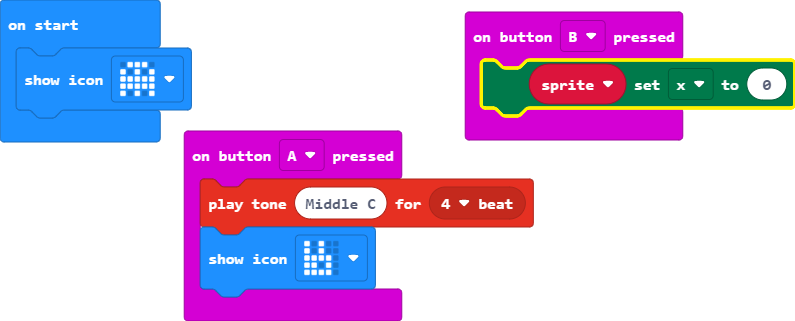
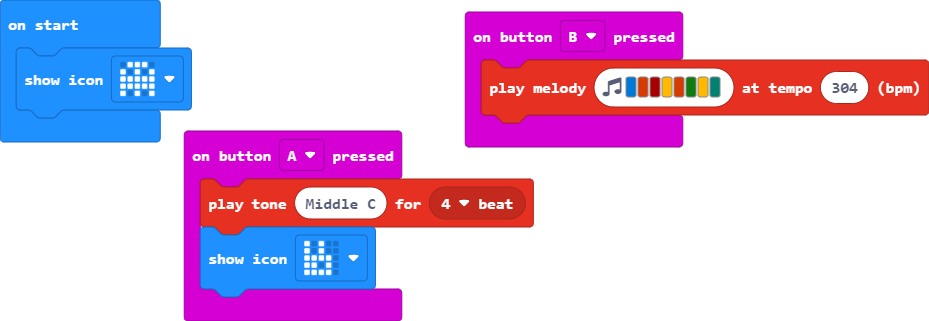
Update main.blocks, main.ts

Changed region(s): [[0.0, 0.0, 1.0, 1.0], [0.0, 0.0623, 0.1208, 0.0935], [0.0302, 0.3427, 0.0906, 0.3738]]

diff --git a/main.ts b/main.ts
@@ -3,7 +3,6 @@ input.onButtonPressed(Button.A, function () {
     basic.showIcon(IconNames.Rabbit)
 })
 input.onButtonPressed(Button.B, function () {
-    let sprite: game.LedSprite = null
-    sprite.set(LedSpriteProperty.X, 0)
+    music.playMelody("E B C5 A B G A F ", 304)
 })
 basic.showIcon(IconNames.Ghost)
